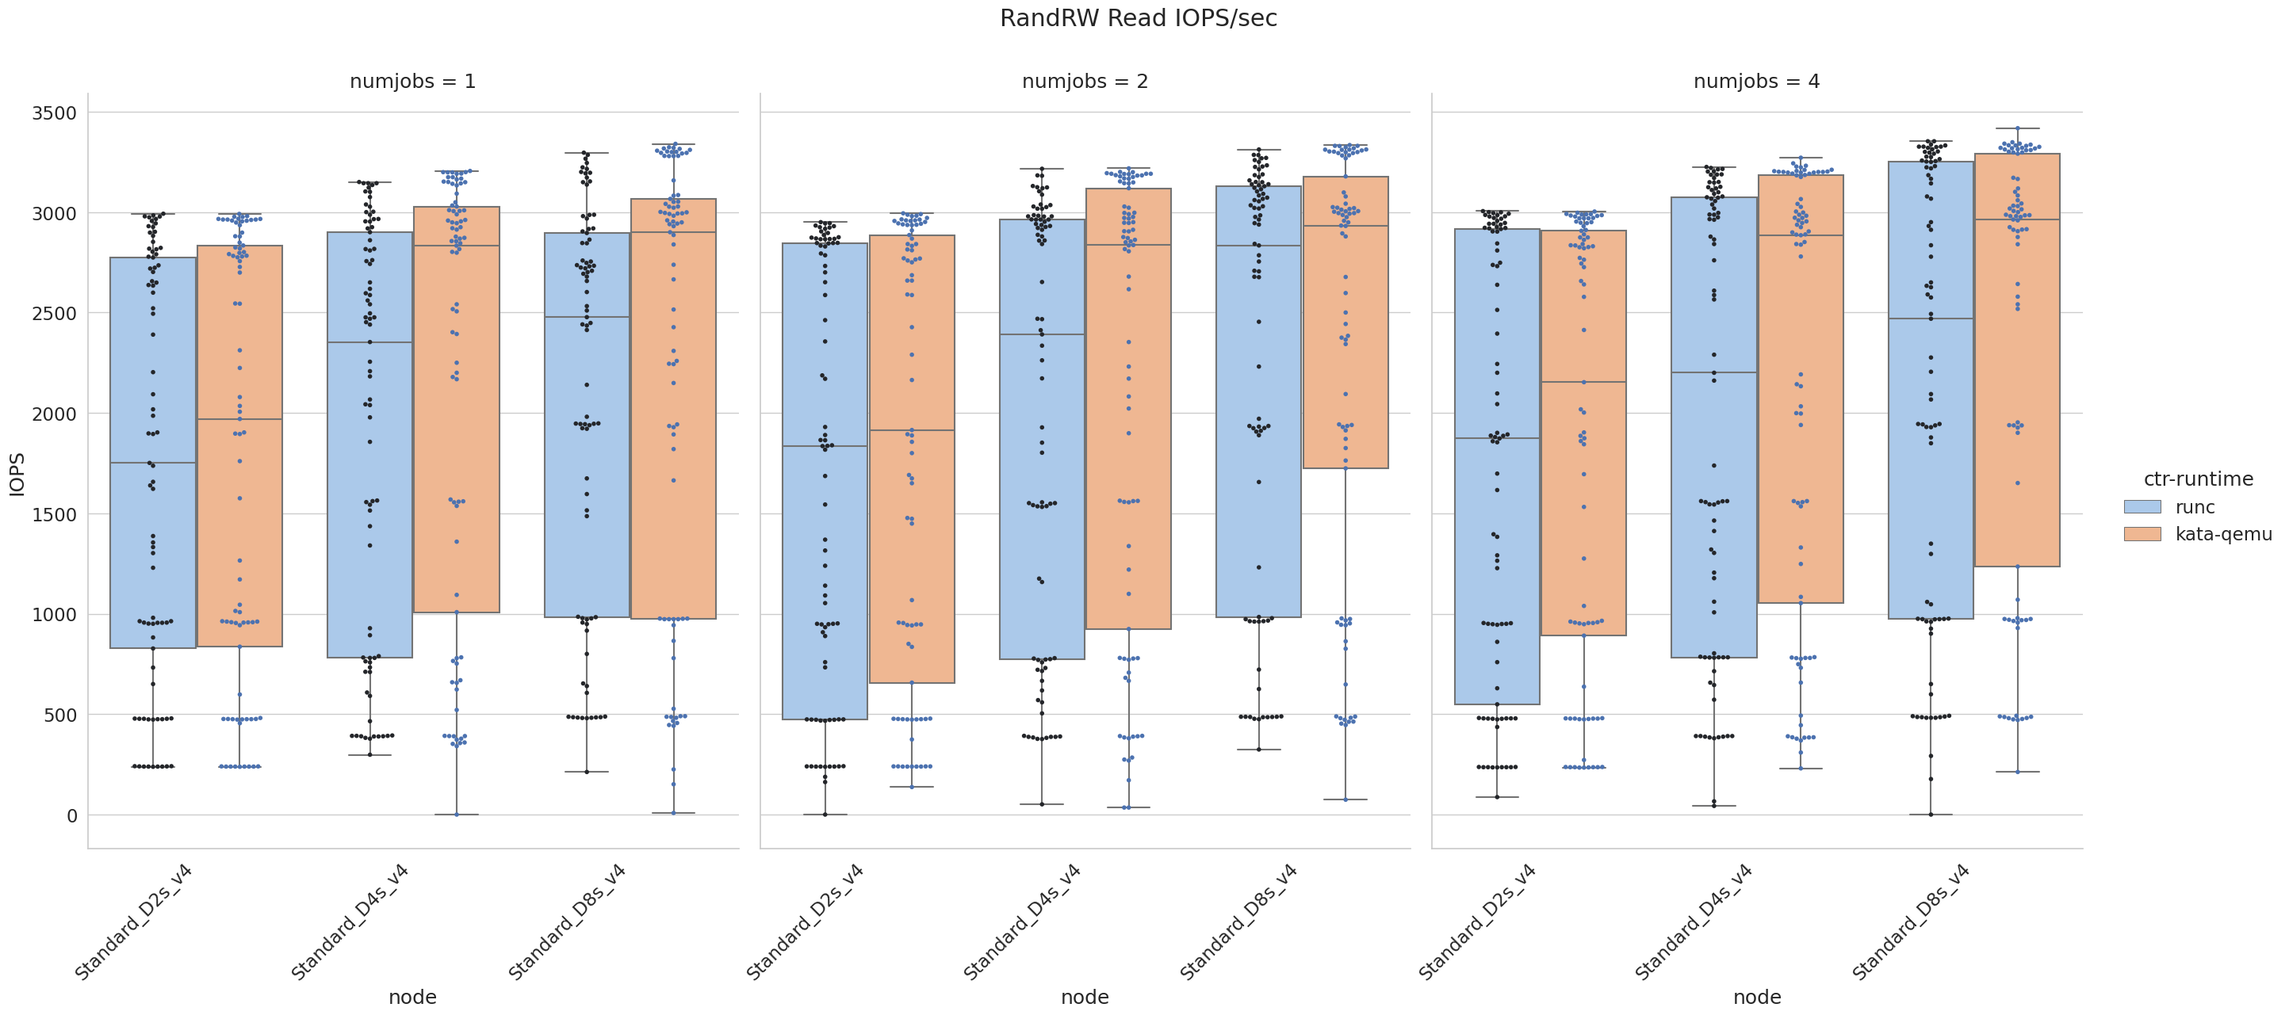
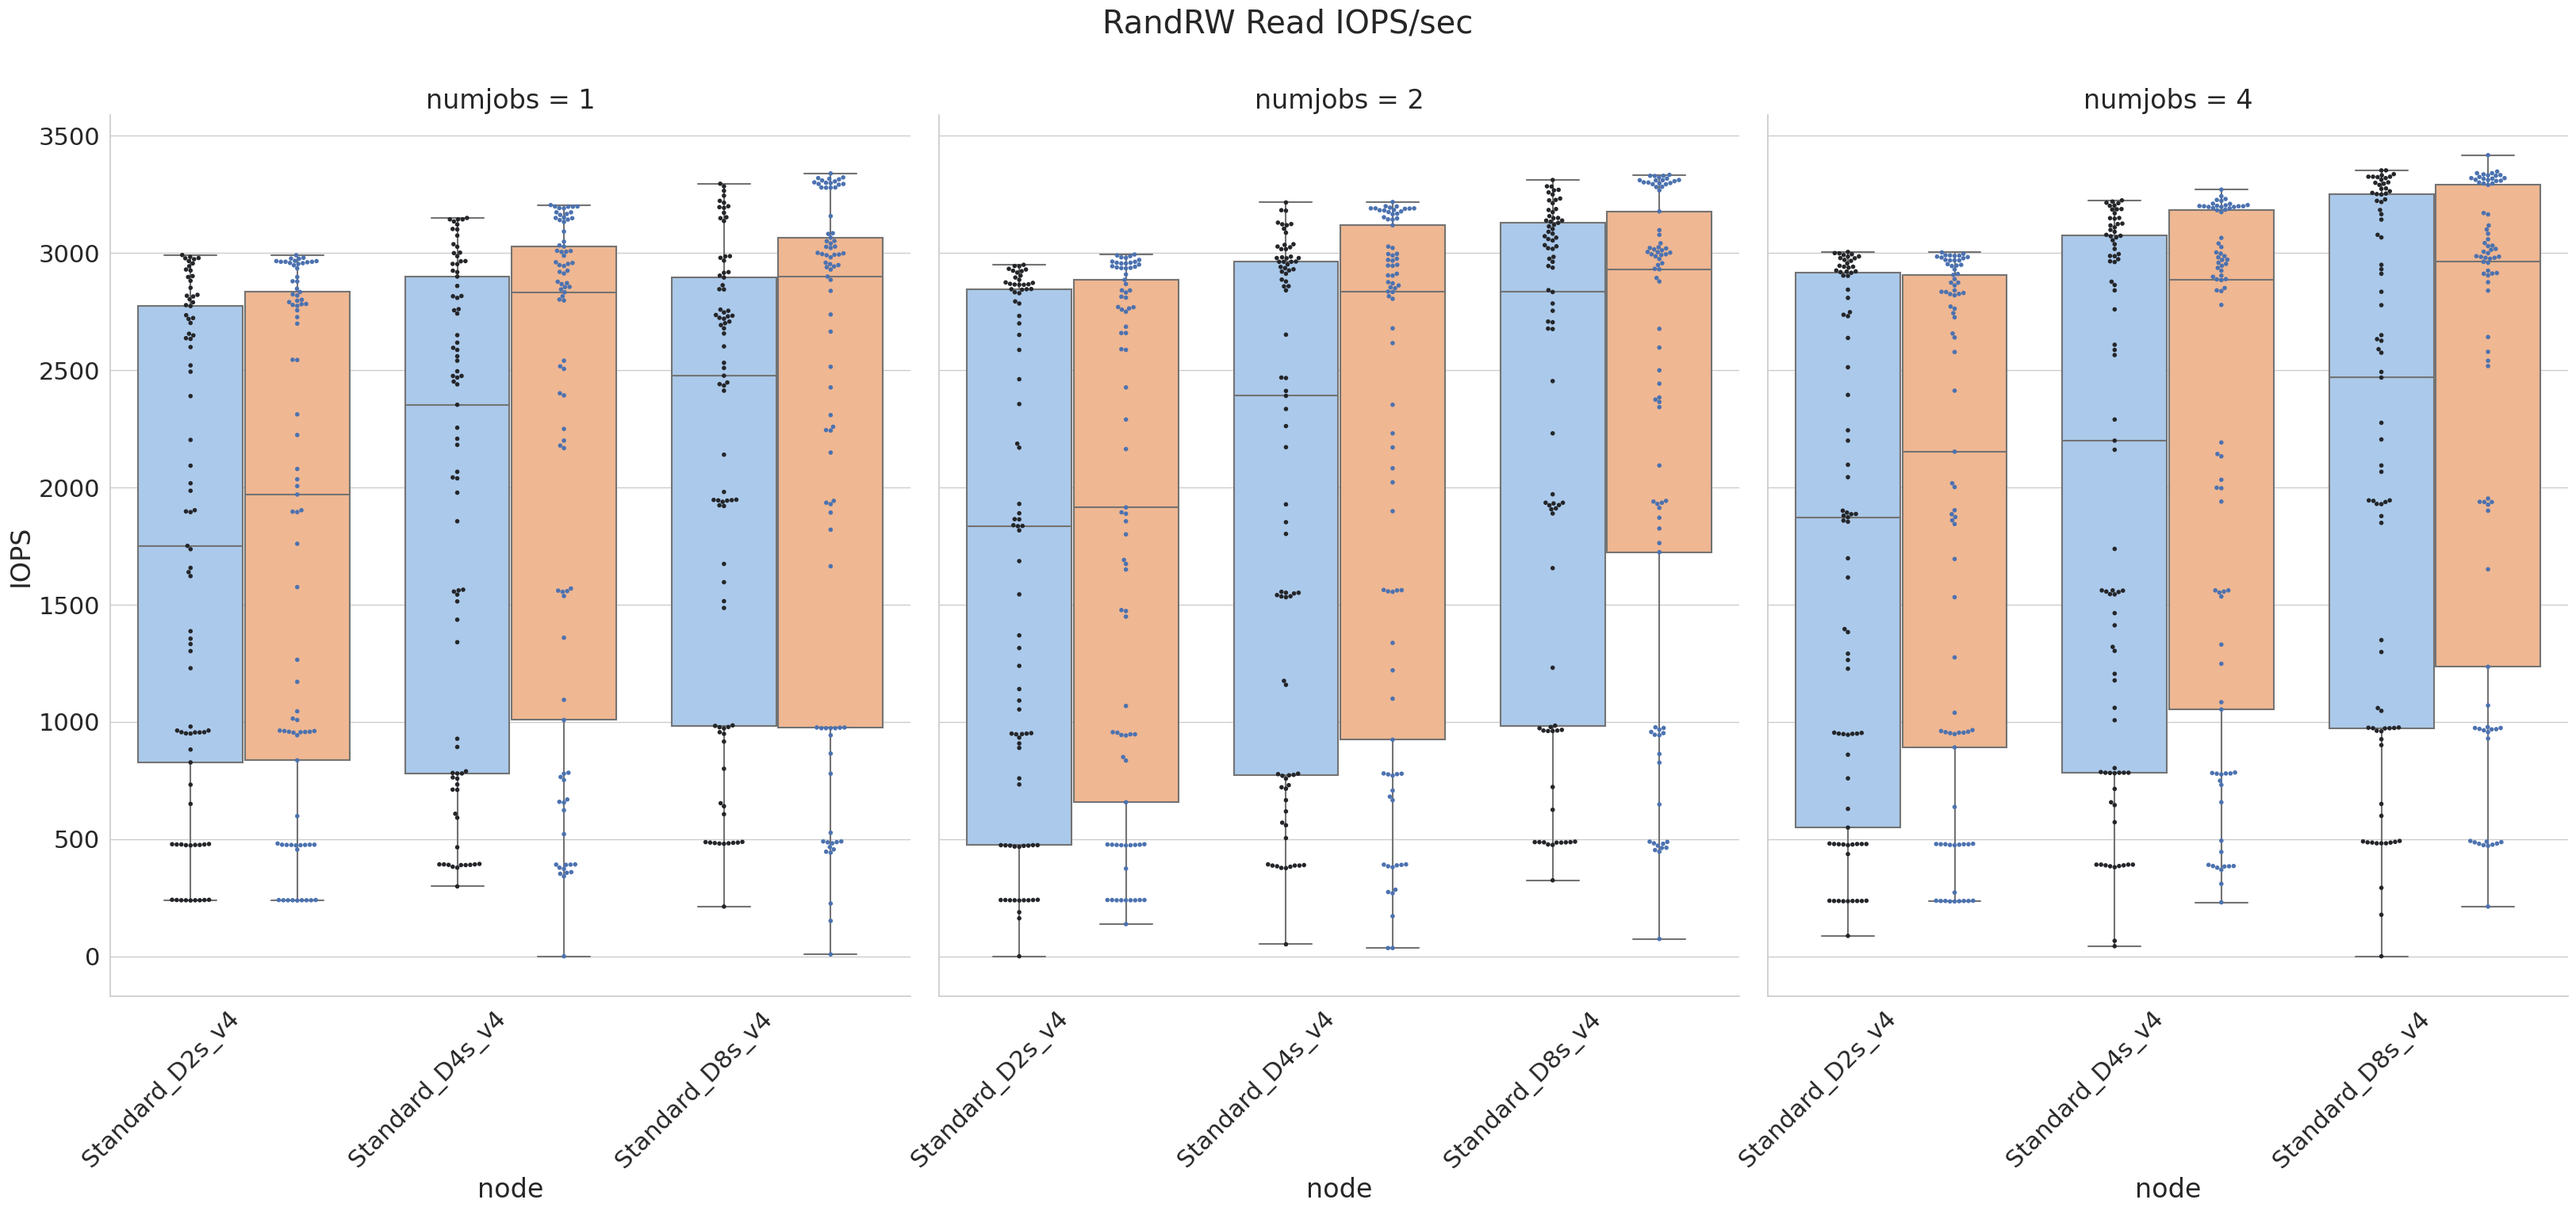
Redraw figures

diff --git a/plots.py b/plots.py
@@ -38,7 +38,7 @@ ops          = list(df['op'].unique())
 metrics      = ['BW (MB/s)', 'IOPS']
 
 palette = 'pastel'
-fsize  = (9, 11)
+fsize  = (11, 13)
 aspect = fsize[0]*1.0/fsize[1]
 
 figures_dir = 'figures'
@@ -70,6 +70,7 @@ def gen_cat_plots(df, readwrite, op, metric):
     if len(df) == 0:
         return
 
+    print('Randering catplot for %s %s' % (op, metric))
     op_name = make_descriptive(readwrite, op)
     title = '%s %s' % (op_name, metric_names[metric])
 
@@ -77,7 +78,7 @@ def gen_cat_plots(df, readwrite, op, metric):
     hue = hue_cols[0] if len(hue_cols) == 1 else df[hue_cols].apply(tuple, axis=1)
     col = 'numjobs'
 
-    sns.set_theme(style="whitegrid", font_scale=1.5, rc={'figure.figsize':fsize})
+    sns.set_theme(style="whitegrid", font_scale=2, rc={'figure.figsize':fsize})
 
     g = sns.catplot(
         showfliers = False, # Outliers will be drawn via strip plot
@@ -87,14 +88,15 @@ def gen_cat_plots(df, readwrite, op, metric):
         hue = hue,
         y = metric,
         dodge = True,
-        whis=[0, 100],
+#        whis=[0, 100],
         kind='box',
 #        k_depth='full',
         col = 'numjobs',
         aspect = aspect,
         height = fsize[1],
         sharey = True,
-        hue_order=ctr_runtimes
+        hue_order=ctr_runtimes,
+        legend_out = False        
     )
 
     ax = g.map_dataframe(
@@ -107,7 +109,7 @@ def gen_cat_plots(df, readwrite, op, metric):
         y = metric,
         dodge = True,
         ec='k',
-        hue_order=ctr_runtimes
+        hue_order=ctr_runtimes,
     )
 
     ax.set_xticklabels(rotation=45, horizontalalignment='right')
@@ -183,58 +185,3 @@ for readwrite in readwrites:
         for metric in metrics:
             gen_box_plots(df, readwrite, op, metric)
             gen_cat_plots(df, readwrite, op, metric)
-
-# def gen_cat_plots(df, readwrite, op, metric):
-#     # Select records with given filters and make a copy.
-#     df = df[(df['readwrite'] == readwrite) & (df['op'] == op)].copy()
-
-#     if len(df) == 0:
-#         return
-
-#     op_name = make_descriptive(readwrite, op)
-#     title = '%s %s' % (op_name, metric_names[metric])
-
-#     hue_cols = ['ctr-runtime']
-#     hue = hue_cols[0] if len(hue_cols) == 1 else df[hue_cols].apply(tuple, axis=1)
-#     col = 'numjobs'
-
-#     sns.set_theme(style="whitegrid", font_scale=1.5, rc={'figure.figsize':fsize})
-
-#     g = sns.catplot(
-#         showfliers = False, # Outliers will be drawn via strip plot
-#         palette = palette,
-#         data = df,
-#         x = 'bs',
-#         hue = hue,
-#         y = metric,
-#         dodge = True,
-# #        whis=[0, 100],
-#         kind='violin',
-# #        k_depth='full',
-#         col = col,
-#         aspect = aspect,
-#         height = fsize[1],
-#         sharey = True,
-#         hue_order=ctr_runtimes
-#     )
-
-#     ax = g.map_dataframe(
-#         sns.swarmplot,
-# #        jitter = True, # Make it easy to see different points
-#         size = 4,
-#         data=df,
-#         hue=hue,
-#         x = 'bs',
-#         y = metric,
-#         dodge = True,
-#         ec='k',
-#         hue_order=ctr_runtimes
-#     )
-
-#     ax.set_xticklabels(rotation=45, horizontalalignment='right')
-#     g.fig.suptitle(title, y=1.05)
-#     filename = (op_name + metric + 'Cat').replace(' ', '').replace('(MB/s)', '') + '.png'
-#     #g.fig.savefig(os.path.join(figures_dir, filename), bbox_inches='tight')
-#     plt.show()
-
-# gen_cat_plots(df, 'randread', 'read', metrics[0])
